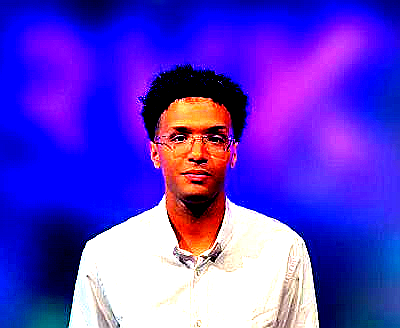
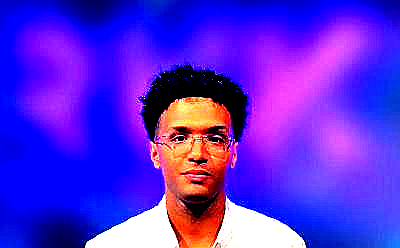
Fix ASCII portrait proportion: tighter crop fills full SVG height

diff --git a/scripts/prep_photo.py b/scripts/prep_photo.py
@@ -17,9 +17,9 @@ OUT = SRC.parent / "source-prepped.png"
 def main():
     img = Image.open(SRC).convert("RGB")
 
-    # crop to upper 75% — focus on face/torso, drop bottom
+    # crop: remove bottom third, keep face + upper torso only
     w, h = img.size
-    img = img.crop((0, 0, w, int(h * 0.82)))
+    img = img.crop((0, 0, w, int(h * 0.62)))
 
     # strong contrast + sharpness for ASCII legibility
     img = ImageEnhance.Contrast(img).enhance(2.4)
